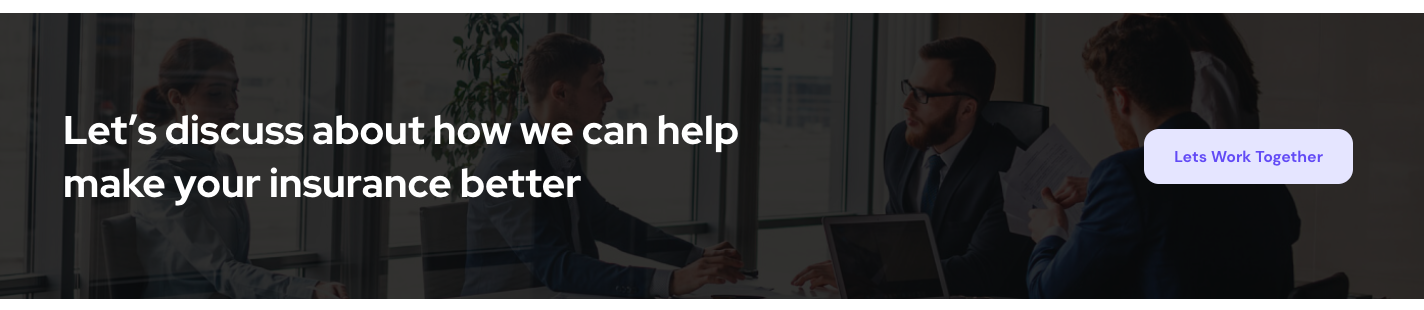
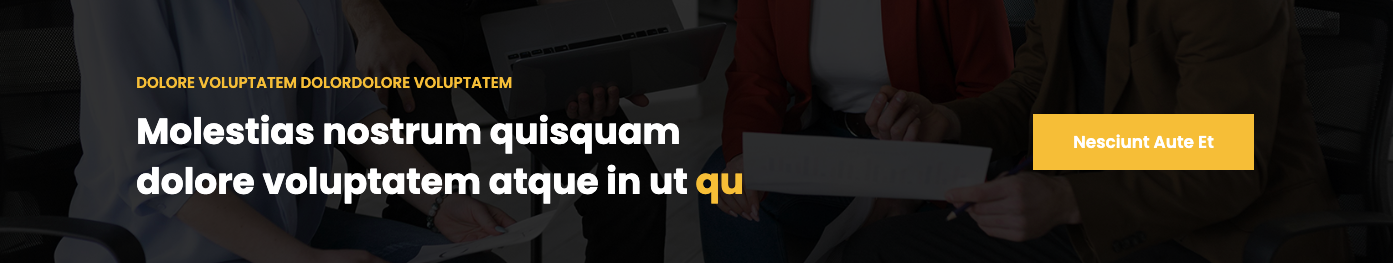
dynamic page updates

diff --git a/resources/views/frontend/pages/dynamic_page.blade.php b/resources/views/frontend/pages/dynamic_page.blade.php
@@ -64,15 +64,24 @@
         @endif
 
         @if($value == "call_to_action_1")
-            <div class="rts-callto-acation-area rts-callto-acation-area4 bg-call-to-action-two mb--80">
+            <div class="rs-cta style1 bg13 pt-70 pb-60 md-pt-70 md-pb-65">
                 <div class="container">
-                    <div class="row">
-                        <div class="col-12">
-                            <div class="cta-two-wrapper">
-                                <div class="title-area">
-                                    <h3 class="title animated fadeIn">{{ ucfirst($call1_elements->heading ?? '') }}</h3>
-                                </div>
-                                <a class="rts-btn btn-secondary-3" href="{{@$call1_elements->button_link ?? '/contact-us'}}">{{ucwords(@$call1_elements->button ?? 'Lets Work Together')}}</a>
+                    <div class="row y-middle">
+                        <div class="col-lg-7 md-mb-30">
+                            <div class="sec-title2">
+                                <div class="sub-text">{{@$call1_elements->subheading ?? ''}}</div>
+                                <h2 class="title white-color margin-0">
+                                    <?php
+                                    $split = explode(" ", @$call1_elements->heading);?> {{preg_replace('/\W\w+\s*(\W*)$/', '$1', @$call1_elements->heading)."\n"}}
+                                    <span class="new-next"> {{$split[count($split)-1]}} </span>
+                                </h2>
+                            </div>
+                        </div>
+                        <div class="col-lg-5">
+                            <div class="btn-part text-right md-left mt-3">
+                                <a class="readon consultant discover" href="{{@$call1_elements->button_link ?? '/contact-us'}}">
+                                    {{ucwords(@$call1_elements->button ?? 'Get Started')}}
+                                </a>
                             </div>
                         </div>
                     </div>
@@ -81,27 +90,23 @@
         @endif
 
         @if($value == "background_image_section")
-            <div class="rts-contact-area contact-one appoinment background-contact-appoinment">
-                <div class="">
-                    <div class="row g-0 align-items-center">
-                        <div class="col-xl-5 col-lg-5 col-md-12 col-sm-12 col-12">
-                            <div class="contact-image-one appoinment">
-                                <img src="{{asset('/images/section_elements/bgimage_section/'.@$bgimage_elements->image)}}" alt="">
+            <div class="rs-about bg19 pt-40 pb-80 md-pb-70">
+                <div class="container">
+                    <div class="row y-middle">
+                        <div class="col-lg-6 pr-50 md-pr-15">
+                            <div class="sec-title">
+                                <h2 class="title title4 pb-30">
+                                    {{@$bgimage_elements->heading ?? ''}}
+                                </h2>
+                                <div class="margin-0 pb-30 text-justify">
+                                    {{ @$bgimage_elements->description }}
+                                </div>
                             </div>
                         </div>
-                        <div class="col-xl-7 col-lg-7 col-md-12 col-sm-12 col-12">
-                            <div class="contact-form-area-one">
-                                <div class="rts-title-area contact-appoinment text-start">
-                                    <p class="pre-title">
-                                        {{@$bgimage_elements->subheading ?? ''}}
-                                    </p>
-                                    <h2 class="title">{{@$bgimage_elements->heading ?? ''}}</h2>
-                                </div>
-                                <p class="disc custom-fs-line text-justify text-white">
-                                    {{ @$bgimage_elements->description }}
-                                </p>
+                        <div class="col-lg-6">
+                            <div class="images-part">
+                                <img src="{{asset('/images/section_elements/bgimage_section/'.@$bgimage_elements->image)}}" alt="Images">
                             </div>
-
                         </div>
                     </div>
                 </div>
@@ -109,31 +114,29 @@
         @endif
 
         @if($value == "flash_cards")
-            <div class="rts-service-area rts-service-area5" style="margin-top: 50px; margin-bottom: 50px">
+            <div class="rs-services style1 modify shape-bg pt-128 md-pt-70 pb-140 md-pb-80">
                 <div class="container">
-                    <div class="col-12">
-                        <div class="text-center title-service-three">
-                            <p class="pre-title">
-                                {{$flash_elements[0]->subheading}}
-                            </p>
-                            <h2 class="title">{{@$flash_elements[0]->heading}}</h2>
-                        </div>
+                    <div class="sec-title4 text-center mb-60">
+                        <div class="sub-title mb-6">{{$flash_elements[0]->subheading ?? ''}}</div>
+                        <h2 class="title primary-color">{{@$flash_elements[0]->heading ?? ''}}</h2>
                     </div>
-                    <div class="row g-5 mt--20">
+                    <div class="row service-wrap mr-0 ml-0">
                         @foreach(@$flash_elements as $index=>$flash_element)
-                            <div class="col-xl-4 col-lg-4 col-md-6 col-sm-12">
-                            <div class="service-one-inner-four">
-                                <a href="#" class="icon">
-                                    <img src="{{asset('assets/frontend/images/service/icon/service-logo'.($index+1).'.svg')}}" alt="">
-                                </a>
-                                <div class="content">
-                                    <h5 class="title">{{ucwords(@$flash_element->list_header)}}</h5>
-                                    <p class="disc text-justify"> {{ucfirst(@$flash_element->list_description) }}
-                                    </p>
+                            <div class="col-lg-4 padding-0 {{ $loop->first ? 'pr-1':'' }}">
+                                <div class="service-grid">
+                                    <div class="service-icon mb-23">
+                                        <img src="{{ asset('assets/frontend/images/services/'.get_icons($index)) }}" alt="">
+                                    </div>
+                                    <h4 class="title mb-18">
+                                        <a>
+                                            {{ucwords(@$flash_element->list_header)}}
+                                        </a>
+                                    </h4>
+                                    <div class="desc mb-12">
+                                        {{ucfirst(@$flash_element->list_description) }}
+                                    </div>
                                 </div>
-
                             </div>
-                        </div>
                         @endforeach
                     </div>
                 </div>

diff --git a/resources/views/backend/pages/section_elements/create.blade.php b/resources/views/backend/pages/section_elements/create.blade.php
@@ -326,11 +326,18 @@
                                              <div class="card-body">
                                                  <div class="form-group mb-3">
                                                      <label>Heading <span class="text-muted text-danger">*</span></label>
-                                                     <input type="text" class="form-control" maxlength="100" name="heading" value="{{@$call1_elements->heading}}" required>
+                                                     <input type="text" class="form-control" maxlength="65" name="heading" value="{{@$call1_elements->heading}}" required>
                                                      <input type="hidden" class="form-control" value="{{$key}}" name="page_section_id" required>
                                                      <input type="hidden" class="form-control" value="{{$value}}" name="section_name" required>
                                                      <div class="invalid-feedback">
                                                          Please enter the call action section heading.
+                                                     </div>
+                                                 </div>
+                                                 <div class="form-group mb-3">
+                                                     <label>Subheading </label>
+                                                     <input type="text" maxlength="40" class="form-control" value="{{@$call1_elements->subheading}}" name="subheading">
+                                                     <div class="invalid-feedback">
+                                                         Please enter the subheading.
                                                      </div>
                                                  </div>
                                                  <div class="form-group mb-3">
@@ -386,13 +393,6 @@
                                                          </div>
                                                      </div>
 
-                                                     <div class="form-group mb-3">
-                                                         <label>Subheading </label>
-                                                         <input type="text" maxlength="60" class="form-control" name="subheading" value="{{@$bgimage_elements->subheading}}">
-                                                         <div class="invalid-feedback">
-                                                             Please write the subheading.
-                                                         </div>
-                                                     </div>
                                                      <div class="form-group mb-3">
                                                          <label>Description </label>
                                                          <textarea class="form-control" maxlength="1200" rows="12" name="description" >{{@$bgimage_elements->description}}</textarea>

diff --git a/app/Http/Controllers/SectionElementController.php b/app/Http/Controllers/SectionElementController.php
@@ -188,6 +188,7 @@ class SectionElementController extends Controller
             $data=[
                 'page_section_id'        => $section_id,
                 'heading'                => $request->input('heading'),
+                'subheading'             => $request->input('subheading'),
                 'button'                 => $request->input('button'),
                 'button_link'            => $request->input('button_link'),
                 'created_by'             => Auth::user()->id,
@@ -207,7 +208,7 @@ class SectionElementController extends Controller
                 $image = $request->file('image');
                 $name = uniqid() . '__background__' . $image->getClientOriginalName();
                 $path = base_path() . '/public/images/section_elements/bgimage_section/';
-                $moved = Image::make($image->getRealPath())->fit(723, 610)->orientate()->save($path . $name);
+                $moved = Image::make($image->getRealPath())->fit(717, 718)->orientate()->save($path . $name);
                 if ($moved) {
                     $data['image'] = $name;
                 }
@@ -413,7 +414,7 @@ class SectionElementController extends Controller
             $action->page_section_id     = $section_id;
             $action->heading             = $request->input('heading');
             $action->subheading          = $request->input('subheading');
-            $action->description          = $request->input('description');
+            $action->description         = $request->input('description');
             $action->updated_by          = Auth::user()->id;
             $oldimage                    = $action->image;
 
@@ -421,7 +422,7 @@ class SectionElementController extends Controller
                 $image        = $request->file('image');
                 $name         = uniqid().'__background__'.$image->getClientOriginalName();
                 $path         = base_path().'/public/images/section_elements/bgimage_section/';
-                $moved        = Image::make($image->getRealPath())->fit(723, 610)->orientate()->save($path.$name);
+                $moved        = Image::make($image->getRealPath())->fit(717, 718)->orientate()->save($path.$name);
                 if ($moved){
                     $action->image = $name;
                     if (!empty($oldimage) && file_exists(public_path().'/images/section_elements/bgimage_section/'.$oldimage)){

diff --git a/app/Helpers/helpers.php b/app/Helpers/helpers.php
@@ -181,13 +181,13 @@ if (!function_exists('get_icons')) {
     function get_icons($index){
         $icon   = '';
         if($index == 0){
-            $icon = 'flaticon-graph';
+            $icon = 'mission.png';
         }else if($index == 1){
-            $icon = 'flaticon-analysis';
+            $icon = 'vision.png';
         }else if($index == 2){
-            $icon = 'flaticon-sports-and-competition';
+            $icon = 'benefits.png';
         }else{
-            $icon = 'icon-happy';
+            $icon = 'quality.png';
         }
 
         return $icon;
